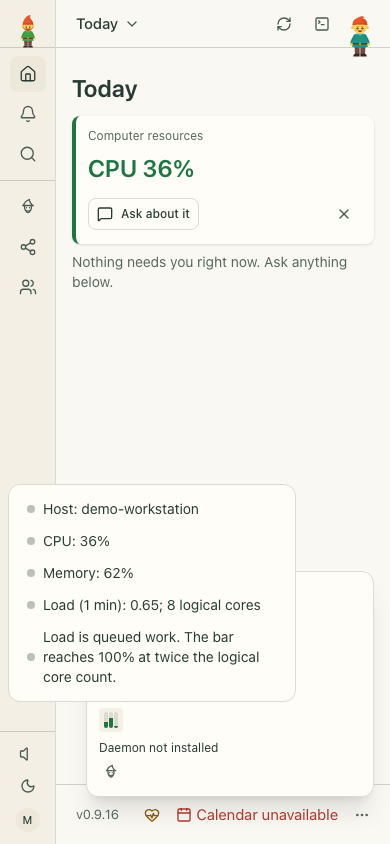
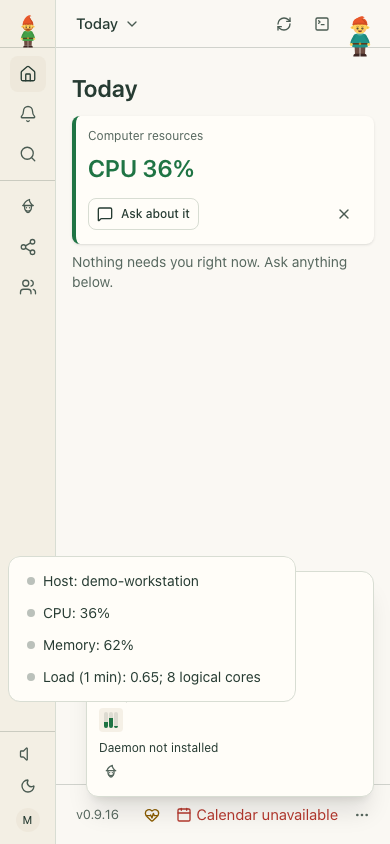
fix(resource): remove footer load explanation
Preserve the approved Resource pane and gallery changes from PR 84.

Changed region(s): [[0.0615, 0.5853, 0.6769, 0.8318], [0.2154, 0.5853, 0.4923, 0.6469], [0.0615, 0.5853, 0.0923, 0.6469]]

diff --git a/plugins/heinzel-resource/docs/assets/screenshots/index.html b/plugins/heinzel-resource/docs/assets/screenshots/index.html
@@ -1,1 +1,1 @@
-<!doctype html><html lang="en"><meta charset="utf-8"><meta name="viewport" content="width=device-width"><title>heinzel-resource screenshots</title><style>body{font:16px/1.6 system-ui;margin:2rem;background:#faf8f3;color:#263b32}main{display:grid;grid-template-columns:repeat(auto-fit,minmax(min(100%,420px),1fr));gap:1rem}figure{margin:0;padding:1rem;background:white;border:1px solid #d8ddd3;border-radius:12px}img{width:100%;height:auto}figcaption{margin-top:.75rem}a:focus-visible{outline:3px solid #a64028}</style><h1>heinzel-resource</h1><p>Isolated demonstration profile · Core 0.9.16 · Review these captures before committing. Click an image to inspect it at full size.</p><main><figure><a href="resources-pane.png"><img src="resources-pane.png" alt="CPU, memory and scaled load in the expanded monitor — fictional demo workstation"></a><figcaption>UI · CPU, memory and scaled load in the expanded monitor — fictional demo workstation</figcaption></figure><figure><a href="today-resources.png"><img src="today-resources.png" alt="A quick CPU summary on Today, with three compact footer meters — demonstration values"></a><figcaption>UI · A quick CPU summary on Today, with three compact footer meters — demonstration values</figcaption></figure><figure><a href="phone-resources.png"><img src="phone-resources.png" alt="Read CPU, memory and queued load on a phone — fictional demo workstation"></a><figcaption>UI · Read CPU, memory and queued load on a phone — fictional demo workstation</figcaption></figure><figure><a href="cli-resources.png"><img src="cli-resources.png" alt="The same fictional CPU, memory and raw load measurements in the CLI"></a><figcaption>CLI · The same fictional CPU, memory and raw load measurements in the CLI</figcaption></figure><figure><a href="terminal-resources.png"><img src="terminal-resources.png" alt="Check CPU, memory, raw load and core count in the app terminal — fictional demo-workstation values"></a><figcaption>UI · Check CPU, memory, raw load and core count in the app terminal — fictional demo-workstation values</figcaption></figure><figure><a href="terminal-resources-json.png"><img src="terminal-resources-json.png" alt="Inspect the structured resource sample for automation in the app terminal — fictional demo-workstation data"></a><figcaption>UI · Inspect the structured resource sample for automation in the app terminal — fictional demo-workstation data</figcaption></figure></main></html>
+<!doctype html><html lang="en"><meta charset="utf-8"><meta name="viewport" content="width=device-width"><title>heinzel-resource screenshots</title><style>body{font:16px/1.6 system-ui;margin:2rem;background:#faf8f3;color:#263b32}main{display:grid;grid-template-columns:repeat(auto-fit,minmax(min(100%,420px),1fr));gap:1rem}figure{margin:0;padding:1rem;background:white;border:1px solid #d8ddd3;border-radius:12px}img{width:100%;height:auto}figcaption{margin-top:.75rem}a:focus-visible{outline:3px solid #a64028}</style><h1>heinzel-resource</h1><p>Isolated demonstration profile · Core 0.9.16 · Review these captures before committing. Click an image to inspect it at full size.</p><main><figure><a href="resources-pane.png"><img src="resources-pane.png" alt="Host, CPU, memory and one-minute load in the expanded monitor — fictional demo workstation"></a><figcaption>UI · Host, CPU, memory and one-minute load in the expanded monitor — fictional demo workstation</figcaption></figure><figure><a href="today-resources.png"><img src="today-resources.png" alt="A quick CPU summary on Today — demonstration values"></a><figcaption>UI · A quick CPU summary on Today — demonstration values</figcaption></figure><figure><a href="phone-resources.png"><img src="phone-resources.png" alt="Read host, CPU, memory and load on a phone — fictional demo workstation"></a><figcaption>UI · Read host, CPU, memory and load on a phone — fictional demo workstation</figcaption></figure><figure><a href="cli-resources.png"><img src="cli-resources.png" alt="The same fictional CPU, memory and raw load measurements in the CLI"></a><figcaption>CLI · The same fictional CPU, memory and raw load measurements in the CLI</figcaption></figure><figure><a href="terminal-resources.png"><img src="terminal-resources.png" alt="Check CPU, memory, raw load and core count in the app terminal — fictional demo-workstation values"></a><figcaption>UI · Check CPU, memory, raw load and core count in the app terminal — fictional demo-workstation values</figcaption></figure><figure><a href="terminal-resources-json.png"><img src="terminal-resources-json.png" alt="Inspect the structured resource sample for automation in the app terminal — fictional demo-workstation data"></a><figcaption>UI · Inspect the structured resource sample for automation in the app terminal — fictional demo-workstation data</figcaption></figure></main></html>

diff --git a/plugins/heinzel-resource/tests/unit/resources_test.py b/plugins/heinzel-resource/tests/unit/resources_test.py
@@ -147,7 +147,8 @@ def test_visualizer_keeps_percentages_and_load_capacity_distinct(probe, cpu, loa
     assert [meter.value for meter in status.meters] == pytest.approx([cpu, 40, min(100, load * 5)])
     assert status.meters[2].tone == load_tone
     assert "workshop.local" in status.detail[0].text
-    assert any("twice the logical core count" in line.text for line in status.detail)
+    assert len(status.detail) == 4  # four facts, no explanatory tail
+    assert not any("queued work" in line.text or "twice the" in line.text for line in status.detail)
     assert overview(sample).value == f"CPU {cpu}%"
     assert sampling(ResourceService())[0].status.value == "up"
 

diff --git a/plugins/heinzel-resource/src/heinzel_resource/__init__.py b/plugins/heinzel-resource/src/heinzel_resource/__init__.py
@@ -153,7 +153,6 @@ def machine(sample: Resources) -> StatusItem:
             DetailLine(text=f"CPU: {_percent(sample.cpu_percent)}"),
             DetailLine(text=f"Memory: {_percent(sample.memory_percent)}"),
             DetailLine(text=f"Load (1 min): {load}; {sample.logical_cores or '?'} logical cores"),
-            DetailLine(text="Load is queued work. The bar reaches 100% at twice the logical core count."),
             *[DetailLine(text=problem[:80], tone="warn") for problem in sample.problems],
         ],
     )

diff --git a/plugins/heinzel-resource/docs/SCREENSHOT_STORY.md b/plugins/heinzel-resource/docs/SCREENSHOT_STORY.md
@@ -1,43 +1,44 @@
 ## Audience
 
-Someone deciding whether to install System Resources who wants a quick picture of the computer running Heinzel and a way to retrieve the same measurements in a command or automation.
+Someone deciding whether Heinzel can give them a quick view of the computer running their Heinzels, and whether they can also use the readings from the command line.
 
 ## Outcome
 
-Show how a glance at Today and the footer leads to a useful expanded monitor, then show the underlying sample in the CLI and app terminal. The readings are a fictional demonstration, not a claim about the viewer’s machine.
+Show a fictional workstation’s CPU, memory and load at a glance, then reveal the fuller resource detail and the same sample in human-readable and structured command output. The plugin is included in the standard app; its measurements describe the machine running `hz`, not necessarily the machine viewing the app (`README.md`; `src/heinzel_resource/__init__.py`, `Resources` and `ResourceService.sample`).
 
 ## Scenes
 
-1. **Expanded resources:** In light appearance, open the footer’s computer-resources status to show CPU, memory, scaled load, hostname, and the explanation of the load bar. This is the central feature view.
-2. **Today at a glance:** In dark appearance, show the CPU widget together with the compact footer meters. This is a different useful state of the same Core UI, not a duplicate of the expanded monitor.
-3. **Phone monitor:** Open the resources detail at a narrow viewport to show that the same readings can be inspected on a phone. Review the result for meaningful mobile layout; reject it if it merely duplicates the desktop crop.
-4. **CLI sample:** Show `hz resource` as a native CLI result, with the fictional hostname, CPU, memory, raw one-minute load, and logical cores.
-5. **App terminal table:** Run `hz resource` in the app terminal to show an interactive route to the sample.
-6. **App terminal JSON:** Run `hz resource --json` in the app terminal to show the structured form useful for automation. These two terminal captures demonstrate different parameter cases of the single operation; neither is presented as feature UI.
+1. **Expanded monitor, light:** Open the footer’s resource control to reveal the host, CPU, memory, one-minute load and logical cores. The meters make the readings easy to scan; the detail explains the load value. (`machine` status declaration.)
+2. **Today, dark:** Show the compact CPU widget alongside the footer meters in the normal app context. This is a different useful state of the same Core interface, not a second invented plugin page. (`overview` widget and `machine` status declarations.)
+3. **Phone monitor:** Open the same resource detail at a narrow viewport to show that it remains usable on a phone. This is a responsive view, not a claim of different functionality.
+4. **CLI:** Show `hz resource` as a native CLI result, with the fictional host, CPU, memory, raw one-minute load and logical cores. (`resource` operation and `render`.)
+5. **App terminal, table:** Run `hz resource` in the genuine app terminal so an app user can see the readable table in context.
+6. **App terminal, JSON:** Run `hz resource --json` in the genuine app terminal to show the structured form for automation. These two parameter cases are distinct useful results of the one declared CLI operation; neither is presented as feature UI. (`README.md`; `resource` operation.)
 
-## Fictional fixtures
+## Fictional fixtures and presentation
 
-The existing `docs/screenshot_fixture.py` replaces `ResourceService.sample` during explicit capture with `demo-workstation`, CPU 36%, memory 62%, one-minute load 0.65, eight logical cores, no problems, and a fixed UTC sample time. The scaled load meter is derived from that sample; it is not the raw load value. The plan uses this existing bootstrap and a matching browser time. No fixture file needs to be invented.
+`docs/screenshot_fixture.py` is the existing capture bootstrap. It replaces the sampler with a fictional `demo-workstation` sample: CPU 36%, memory 62%, one-minute load 0.65, eight logical cores, no problems, sampled at 2026-10-31 10:00 UTC. The footer load meter is scaled against twice the core count, while its detail and CLI show raw load (`machine`; `render`). The fixed browser time matches the sample. This is demonstration data, not a live benchmark or evidence of real machine health.
 
-Normal presentation fictionalization is explicitly permitted for verified owning-interpreter paths, which become `/demo-profile/.venv`, and for only the verified whole hostname detail in the genuine Doctor row, which becomes `demo-host`. These mappings change no SDK health status or remaining detail and establish no privacy acceptance. Unknown identities still fail, and independent review must inspect every image and transcript.
+Normal presentation fictionalization is explicitly limited as follows: verified owning-interpreter paths become `/demo-profile/.venv`, and only the verified whole hostname detail in the genuine Doctor row becomes `demo-host`. These mappings change no SDK health status or remaining detail and establish no privacy acceptance; unknown identities still fail and independent review must inspect every image and transcript. The fixture’s `demo-workstation` is separately supplied plugin sample data, not permission to substitute arbitrary hostnames.
 
 ## Privacy pitfalls
 
-The fixture substitutes resource readings, but other Core surfaces, Doctor output, paths, terminal transcripts, and surrounding profile data can still reveal real identities or machine details. Do not generalize the two permitted mappings to unverified paths, partial hostname matches, other rows, or other identities. Inspect every image and transcript independently before publication; fail on unknown identities. A dismissed Doctor banner is not proof that no sensitive detail remains elsewhere.
-
-## Source-bound UI surface inventory
-
-- `pyproject.toml`, `[project.entry-points."heinzel.modules"]`, declares `resource = "heinzel_resource"`. The actual entrypoint in `src/heinzel_resource/__init__.py` constructs `module = Module("resource", ...)` and registers `ResourceService`.
-- `@module.operation(render=render, audience="everyday")` declares the single `resource` operation. `render` produces the CLI table; the README documents `hz resource` and `--json`. The app terminal can invoke this operation, but terminal output is not a resource feature view. No CLI-only status should be inferred from the absence of a Page or View.
-- `@module.status(source="resource", name="machine", refresh="2s", ... slots={"footer": True, "sidebar": False})` contributes a Core-rendered footer status with three meters and expandable detail. `@module.widget(source="resource", name="machine", refresh="1m", ...)` contributes the Core-rendered Today metric. These are genuine feature UI and support the first three scenes on the existing `/` route. Different states of that route qualify; no distinct plugin route is needed.
-- `@module.health` declares the `sampling` check, which can contribute to Core health/Doctor presentation. It reports degraded when the sample has problems and otherwise up; its hostname and detail must not be rewritten beyond the explicitly permitted verified Doctor-row mapping.
-- The declared module contains no plugin Page, View, navigation, channel, approval, setup, or info contribution. No external provider UI is declared. Generic Core operation and health surfaces still exist despite the absence of a Page or View; the supplied source does not establish additional plugin-specific routes or screens.
-- `README.md` says readings appear on Today and in the footer; `pyproject.toml` catalog metadata also calls out a resource visualizer. The supplied declarations establish the widget and footer detail, but do not independently declare a separate visualizer page. The plan therefore captures the evidenced Core surfaces. `web/build.py` is a frontend build helper, not a declared UI entrypoint; the supplied file inventory contains no frontend implementation establishing another screen. Catalog and README reference generated images that are not present in the supplied file inventory, so their appearance is not verified here.
+The real sampler calls `gethostname()` and reads local machine metrics. Core chrome, Doctor output, terminal transcripts, paths, account information and unrelated notifications can also expose real information even when the plugin sample is fictional. Review every image and transcript independently, including cropped and mobile captures; reject unknown identities and any unverified substitution. Do not infer privacy acceptance from the fixture, the two narrowly specified presentation mappings, or a clean-looking contact sheet alone.
 
 ## Acceptance criteria
 
-- Capture at least the two distinct genuine feature states: expanded footer detail in light appearance and Today plus footer in dark appearance, along with a useful CLI result. Applied appearance must be visible in the captured views.
-- Show the fixture’s values consistently, distinguish scaled load from raw load, and retain genuine Core rendering. Capture the two app-terminal parameter cases as terminal results, not feature views.
-- Reject forged HTML, duplicate captures, caption-only differences, invented routes or screens, and mobile captures that add no meaningful information. Captions identify demo data.
-- During explicit capture, verify the planned accessible controls and text against the actual running Core UI; the provided source does not prove their runtime accessibility or the resulting crops. Validate the resulting TOML with the capture tooling before use. No project code was executed for this proposal.
-- Independently inspect every image and transcript for privacy and factual accuracy, applying only the explicitly permitted verified mappings; unknown identities fail. Preserve health status and all other Doctor detail.
+- Capture the genuine Core-rendered Today widget and expanded footer detail in applied dark and light appearances, plus the responsive phone view. Confirm the shown values and raw-versus-scaled load distinction against the fixture and declarations.
+- Capture the native CLI result and both genuine app-terminal parameter cases. The terminal steps wait for completion; do not add waits for individual table cells.
+- Keep each image meaningfully different: reject duplicate captures, caption-only changes, terminal output labeled as feature UI, and forged HTML. Use real app surfaces and the existing fixture only.
+- Preserve actual SDK and Doctor health statuses and all other details during the disclosed presentation mappings. Independently inspect every image and transcript for privacy, including unknown identities.
+- Check that captions identify demo data and that the plan parses and conforms to the capture format before capture. This plan was reviewed statically; no code or capture was executed.
+
+## Source-bound UI surface inventory
+
+- `pyproject.toml`, `[project.entry-points."heinzel.modules"]`: the sole declared module entrypoint is `resource = "heinzel_resource"`; `[tool.heinzel.plugin]` places it in the standard profile. No plugin navigation entry or custom Page/View is declared in the provided module.
+- `src/heinzel_resource/__init__.py`, `@module.widget(... name="machine" ...)` and `overview`: a Core-rendered Today metric labeled “Computer resources” shows CPU and refreshes every minute. This is genuine feature UI.
+- The same file, `@module.status(... slots={"footer": True, "sidebar": False})` and `machine`: Core renders footer meters and expandable detail, refreshed every two seconds. This is genuine feature UI; there is no declared sidebar status for it.
+- The same file, `@module.operation(render=render, audience="everyday")`, `resource`, and `render`: the operation supplies CLI output and may also be invoked through the Core app terminal. Its table and JSON are command results, not a plugin-owned page. The provided declarations do not establish another generic Core operation screen, so none is invented.
+- The same file, `@module.health` and `sampling`: health contributes a genuine Doctor check, with a hostname-bearing detail and UP or DEGRADED status based on sample problems. It may appear in Core Doctor UI; its exact surrounding presentation is not declared here and must be verified during capture.
+- No channels, approvals, setup, info, plugin navigation, or external-provider UI contributions are declared in the provided source. Absence of a custom Page/View does not negate the declared Core widget, footer or health surfaces.
+- `pyproject.toml` catalog captions and `README.md` describe the expanded monitor, Today, phone, CLI and terminal captures. The existing plan captures those behaviors. Its Today caption mentions only CPU while the catalog also mentions footer meters; the screenshot should be reviewed to confirm the meters are visible. Actual capture rendering and the availability of the referenced Core controls remain unverified from these files alone.

diff --git a/plugins/heinzel-resource/docs/assets/screenshots/source-story.md b/plugins/heinzel-resource/docs/assets/screenshots/source-story.md
@@ -1,43 +1,44 @@
 ## Audience
 
-Someone deciding whether to install System Resources who wants a quick picture of the computer running Heinzel and a way to retrieve the same measurements in a command or automation.
+Someone deciding whether Heinzel can give them a quick view of the computer running their Heinzels, and whether they can also use the readings from the command line.
 
 ## Outcome
 
-Show how a glance at Today and the footer leads to a useful expanded monitor, then show the underlying sample in the CLI and app terminal. The readings are a fictional demonstration, not a claim about the viewer’s machine.
+Show a fictional workstation’s CPU, memory and load at a glance, then reveal the fuller resource detail and the same sample in human-readable and structured command output. The plugin is included in the standard app; its measurements describe the machine running `hz`, not necessarily the machine viewing the app (`README.md`; `src/heinzel_resource/__init__.py`, `Resources` and `ResourceService.sample`).
 
 ## Scenes
 
-1. **Expanded resources:** In light appearance, open the footer’s computer-resources status to show CPU, memory, scaled load, hostname, and the explanation of the load bar. This is the central feature view.
-2. **Today at a glance:** In dark appearance, show the CPU widget together with the compact footer meters. This is a different useful state of the same Core UI, not a duplicate of the expanded monitor.
-3. **Phone monitor:** Open the resources detail at a narrow viewport to show that the same readings can be inspected on a phone. Review the result for meaningful mobile layout; reject it if it merely duplicates the desktop crop.
-4. **CLI sample:** Show `hz resource` as a native CLI result, with the fictional hostname, CPU, memory, raw one-minute load, and logical cores.
-5. **App terminal table:** Run `hz resource` in the app terminal to show an interactive route to the sample.
-6. **App terminal JSON:** Run `hz resource --json` in the app terminal to show the structured form useful for automation. These two terminal captures demonstrate different parameter cases of the single operation; neither is presented as feature UI.
+1. **Expanded monitor, light:** Open the footer’s resource control to reveal the host, CPU, memory, one-minute load and logical cores. The meters make the readings easy to scan; the detail explains the load value. (`machine` status declaration.)
+2. **Today, dark:** Show the compact CPU widget alongside the footer meters in the normal app context. This is a different useful state of the same Core interface, not a second invented plugin page. (`overview` widget and `machine` status declarations.)
+3. **Phone monitor:** Open the same resource detail at a narrow viewport to show that it remains usable on a phone. This is a responsive view, not a claim of different functionality.
+4. **CLI:** Show `hz resource` as a native CLI result, with the fictional host, CPU, memory, raw one-minute load and logical cores. (`resource` operation and `render`.)
+5. **App terminal, table:** Run `hz resource` in the genuine app terminal so an app user can see the readable table in context.
+6. **App terminal, JSON:** Run `hz resource --json` in the genuine app terminal to show the structured form for automation. These two parameter cases are distinct useful results of the one declared CLI operation; neither is presented as feature UI. (`README.md`; `resource` operation.)
 
-## Fictional fixtures
+## Fictional fixtures and presentation
 
-The existing `docs/screenshot_fixture.py` replaces `ResourceService.sample` during explicit capture with `demo-workstation`, CPU 36%, memory 62%, one-minute load 0.65, eight logical cores, no problems, and a fixed UTC sample time. The scaled load meter is derived from that sample; it is not the raw load value. The plan uses this existing bootstrap and a matching browser time. No fixture file needs to be invented.
+`docs/screenshot_fixture.py` is the existing capture bootstrap. It replaces the sampler with a fictional `demo-workstation` sample: CPU 36%, memory 62%, one-minute load 0.65, eight logical cores, no problems, sampled at 2026-10-31 10:00 UTC. The footer load meter is scaled against twice the core count, while its detail and CLI show raw load (`machine`; `render`). The fixed browser time matches the sample. This is demonstration data, not a live benchmark or evidence of real machine health.
 
-Normal presentation fictionalization is explicitly permitted for verified owning-interpreter paths, which become `/demo-profile/.venv`, and for only the verified whole hostname detail in the genuine Doctor row, which becomes `demo-host`. These mappings change no SDK health status or remaining detail and establish no privacy acceptance. Unknown identities still fail, and independent review must inspect every image and transcript.
+Normal presentation fictionalization is explicitly limited as follows: verified owning-interpreter paths become `/demo-profile/.venv`, and only the verified whole hostname detail in the genuine Doctor row becomes `demo-host`. These mappings change no SDK health status or remaining detail and establish no privacy acceptance; unknown identities still fail and independent review must inspect every image and transcript. The fixture’s `demo-workstation` is separately supplied plugin sample data, not permission to substitute arbitrary hostnames.
 
 ## Privacy pitfalls
 
-The fixture substitutes resource readings, but other Core surfaces, Doctor output, paths, terminal transcripts, and surrounding profile data can still reveal real identities or machine details. Do not generalize the two permitted mappings to unverified paths, partial hostname matches, other rows, or other identities. Inspect every image and transcript independently before publication; fail on unknown identities. A dismissed Doctor banner is not proof that no sensitive detail remains elsewhere.
-
-## Source-bound UI surface inventory
-
-- `pyproject.toml`, `[project.entry-points."heinzel.modules"]`, declares `resource = "heinzel_resource"`. The actual entrypoint in `src/heinzel_resource/__init__.py` constructs `module = Module("resource", ...)` and registers `ResourceService`.
-- `@module.operation(render=render, audience="everyday")` declares the single `resource` operation. `render` produces the CLI table; the README documents `hz resource` and `--json`. The app terminal can invoke this operation, but terminal output is not a resource feature view. No CLI-only status should be inferred from the absence of a Page or View.
-- `@module.status(source="resource", name="machine", refresh="2s", ... slots={"footer": True, "sidebar": False})` contributes a Core-rendered footer status with three meters and expandable detail. `@module.widget(source="resource", name="machine", refresh="1m", ...)` contributes the Core-rendered Today metric. These are genuine feature UI and support the first three scenes on the existing `/` route. Different states of that route qualify; no distinct plugin route is needed.
-- `@module.health` declares the `sampling` check, which can contribute to Core health/Doctor presentation. It reports degraded when the sample has problems and otherwise up; its hostname and detail must not be rewritten beyond the explicitly permitted verified Doctor-row mapping.
-- The declared module contains no plugin Page, View, navigation, channel, approval, setup, or info contribution. No external provider UI is declared. Generic Core operation and health surfaces still exist despite the absence of a Page or View; the supplied source does not establish additional plugin-specific routes or screens.
-- `README.md` says readings appear on Today and in the footer; `pyproject.toml` catalog metadata also calls out a resource visualizer. The supplied declarations establish the widget and footer detail, but do not independently declare a separate visualizer page. The plan therefore captures the evidenced Core surfaces. `web/build.py` is a frontend build helper, not a declared UI entrypoint; the supplied file inventory contains no frontend implementation establishing another screen. Catalog and README reference generated images that are not present in the supplied file inventory, so their appearance is not verified here.
+The real sampler calls `gethostname()` and reads local machine metrics. Core chrome, Doctor output, terminal transcripts, paths, account information and unrelated notifications can also expose real information even when the plugin sample is fictional. Review every image and transcript independently, including cropped and mobile captures; reject unknown identities and any unverified substitution. Do not infer privacy acceptance from the fixture, the two narrowly specified presentation mappings, or a clean-looking contact sheet alone.
 
 ## Acceptance criteria
 
-- Capture at least the two distinct genuine feature states: expanded footer detail in light appearance and Today plus footer in dark appearance, along with a useful CLI result. Applied appearance must be visible in the captured views.
-- Show the fixture’s values consistently, distinguish scaled load from raw load, and retain genuine Core rendering. Capture the two app-terminal parameter cases as terminal results, not feature views.
-- Reject forged HTML, duplicate captures, caption-only differences, invented routes or screens, and mobile captures that add no meaningful information. Captions identify demo data.
-- During explicit capture, verify the planned accessible controls and text against the actual running Core UI; the provided source does not prove their runtime accessibility or the resulting crops. Validate the resulting TOML with the capture tooling before use. No project code was executed for this proposal.
-- Independently inspect every image and transcript for privacy and factual accuracy, applying only the explicitly permitted verified mappings; unknown identities fail. Preserve health status and all other Doctor detail.
+- Capture the genuine Core-rendered Today widget and expanded footer detail in applied dark and light appearances, plus the responsive phone view. Confirm the shown values and raw-versus-scaled load distinction against the fixture and declarations.
+- Capture the native CLI result and both genuine app-terminal parameter cases. The terminal steps wait for completion; do not add waits for individual table cells.
+- Keep each image meaningfully different: reject duplicate captures, caption-only changes, terminal output labeled as feature UI, and forged HTML. Use real app surfaces and the existing fixture only.
+- Preserve actual SDK and Doctor health statuses and all other details during the disclosed presentation mappings. Independently inspect every image and transcript for privacy, including unknown identities.
+- Check that captions identify demo data and that the plan parses and conforms to the capture format before capture. This plan was reviewed statically; no code or capture was executed.
+
+## Source-bound UI surface inventory
+
+- `pyproject.toml`, `[project.entry-points."heinzel.modules"]`: the sole declared module entrypoint is `resource = "heinzel_resource"`; `[tool.heinzel.plugin]` places it in the standard profile. No plugin navigation entry or custom Page/View is declared in the provided module.
+- `src/heinzel_resource/__init__.py`, `@module.widget(... name="machine" ...)` and `overview`: a Core-rendered Today metric labeled “Computer resources” shows CPU and refreshes every minute. This is genuine feature UI.
+- The same file, `@module.status(... slots={"footer": True, "sidebar": False})` and `machine`: Core renders footer meters and expandable detail, refreshed every two seconds. This is genuine feature UI; there is no declared sidebar status for it.
+- The same file, `@module.operation(render=render, audience="everyday")`, `resource`, and `render`: the operation supplies CLI output and may also be invoked through the Core app terminal. Its table and JSON are command results, not a plugin-owned page. The provided declarations do not establish another generic Core operation screen, so none is invented.
+- The same file, `@module.health` and `sampling`: health contributes a genuine Doctor check, with a hostname-bearing detail and UP or DEGRADED status based on sample problems. It may appear in Core Doctor UI; its exact surrounding presentation is not declared here and must be verified during capture.
+- No channels, approvals, setup, info, plugin navigation, or external-provider UI contributions are declared in the provided source. Absence of a custom Page/View does not negate the declared Core widget, footer or health surfaces.
+- `pyproject.toml` catalog captions and `README.md` describe the expanded monitor, Today, phone, CLI and terminal captures. The existing plan captures those behaviors. Its Today caption mentions only CPU while the catalog also mentions footer meters; the screenshot should be reviewed to confirm the meters are visible. Actual capture rendering and the availability of the referenced Core controls remain unverified from these files alone.

diff --git a/plugins/heinzel-resource/README.md b/plugins/heinzel-resource/README.md
@@ -11,17 +11,17 @@ hz resource                # CPU, memory and load now; --json for agents
 <!-- screenshots:start -->
 ## Screenshots
 
-<img src="docs/assets/screenshots/resources-pane.png" alt="CPU, memory and scaled load in the expanded monitor — fictional demo workstation" width="960">
+<img src="docs/assets/screenshots/resources-pane.png" alt="Host, CPU, memory and one-minute load in the expanded monitor — fictional demo workstation" width="960">
 
-CPU, memory and scaled load in the expanded monitor — fictional demo workstation
+Host, CPU, memory and one-minute load in the expanded monitor — fictional demo workstation
 
-<img src="docs/assets/screenshots/today-resources.png" alt="A quick CPU summary on Today, with three compact footer meters — demonstration values" width="960">
+<img src="docs/assets/screenshots/today-resources.png" alt="A quick CPU summary on Today — demonstration values" width="960">
 
-A quick CPU summary on Today, with three compact footer meters — demonstration values
+A quick CPU summary on Today — demonstration values
 
-<img src="docs/assets/screenshots/phone-resources.png" alt="Read CPU, memory and queued load on a phone — fictional demo workstation" width="960">
+<img src="docs/assets/screenshots/phone-resources.png" alt="Read host, CPU, memory and load on a phone — fictional demo workstation" width="960">
 
-Read CPU, memory and queued load on a phone — fictional demo workstation
+Read host, CPU, memory and load on a phone — fictional demo workstation
 
 <img src="docs/assets/screenshots/terminal-resources.png" alt="Check CPU, memory, raw load and core count in the app terminal — fictional demo-workstation values" width="960">
 

diff --git a/plugins/heinzel-resource/CHANGELOG.md b/plugins/heinzel-resource/CHANGELOG.md
@@ -1,5 +1,9 @@
 # Changelog
 
+## 0.1.4
+
+The footer pane lists the four readings only, without the explanation of the load bar.
+
 ## 0.1.3
 
 Clarify where to find machine resource readings in the app.
